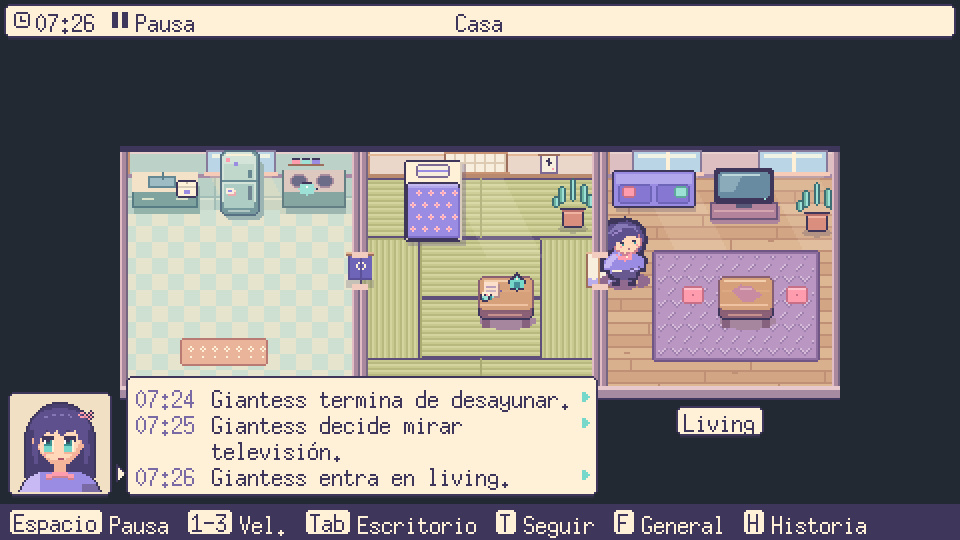
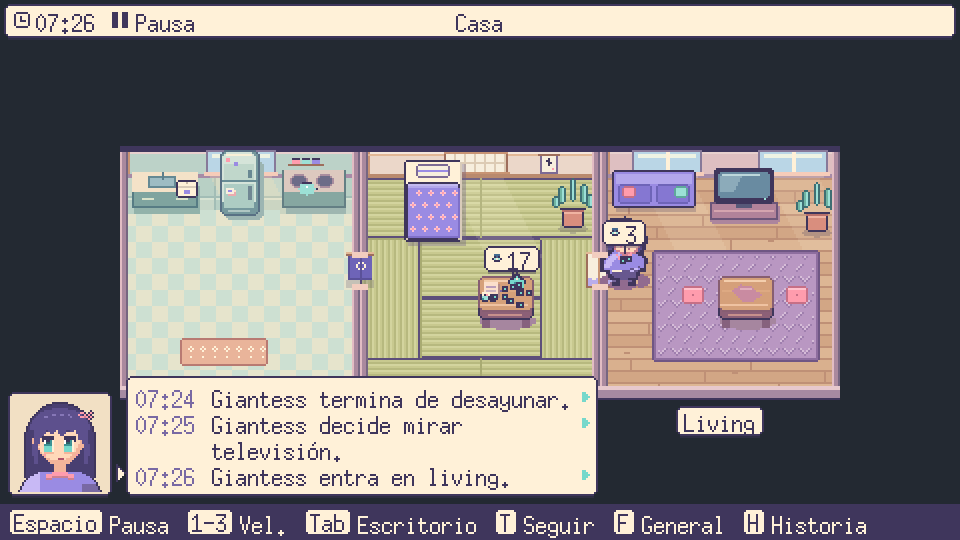
Indicador de tinies en la vista macro: punto por tiny y globo por superficie

Changed region(s): [[0.5, 0.4444, 0.5625, 0.563], [0.625, 0.3852, 0.6875, 0.5037]]

diff --git a/cmd/game/tinies.go b/cmd/game/tinies.go
@@ -1,0 +1,111 @@
+package main
+
+import (
+	"cmp"
+	"image"
+	"math"
+	"slices"
+
+	"github.com/hajimehoshi/ebiten/v2"
+	"github.com/hajimehoshi/ebiten/v2/vector"
+
+	"gtsandbox/internal/camera"
+	"gtsandbox/internal/core/ids"
+	"gtsandbox/internal/ui"
+	"gtsandbox/internal/view"
+)
+
+// tinyGroup son los tinies de una misma superficie, como se indican en la
+// vista macro (donde los tinies no se dibujan).
+type tinyGroup struct {
+	surface ids.ID
+	tinies  []ids.ID
+	dots    []image.Point // cada tiny en el lienzo
+	at      image.Point   // centro del grupo en el lienzo
+	alarmed bool
+	badge   image.Rectangle // dónde quedó el globo
+}
+
+// isTiny dice si una cosa del Frame es un tiny vivo: un agente con
+// necesidades que no es un Space (la giantess sí lo es) ni son restos.
+func isTiny(t view.Thing) bool { return len(t.Needs) > 0 && t.Remains == "" }
+
+// tinyGroups agrupa los tinies por superficie, en orden de ID, y ubica cada
+// globo para que no pise a los anteriores.
+func tinyGroups(f *view.Frame, proj camera.Projector) []tinyGroup {
+	var out []tinyGroup
+	index := map[ids.ID]int{}
+	for _, t := range f.Things {
+		if !isTiny(t) {
+			continue
+		}
+		i, ok := index[t.Space]
+		if !ok {
+			i = len(out)
+			index[t.Space] = i
+			out = append(out, tinyGroup{surface: t.Space})
+		}
+		x, y := proj.ToScreen(t.Pose.Pos)
+		g := &out[i]
+		g.tinies = append(g.tinies, t.ID)
+		g.dots = append(g.dots, image.Pt(int(math.Round(float64(x))), int(math.Round(float64(y)))))
+		g.alarmed = g.alarmed || t.Alarmed
+	}
+	slices.SortFunc(out, func(a, b tinyGroup) int { return cmp.Compare(a.surface, b.surface) })
+	var placed []image.Rectangle
+	for i := range out {
+		g := &out[i]
+		var sum image.Point
+		top := math.MaxInt
+		for _, d := range g.dots {
+			sum = sum.Add(d)
+			top = min(top, d.Y)
+		}
+		g.at = image.Pt(sum.X/len(g.dots), top)
+		b := ui.TinyBadge{Count: len(g.tinies), Alarmed: g.alarmed}
+		for lift := 0; ; lift += 4 {
+			g.badge = b.Rect(g.at, lift)
+			if !slices.ContainsFunc(placed, g.badge.Overlaps) || lift > 80 {
+				break
+			}
+		}
+		placed = append(placed, g.badge)
+	}
+	return out
+}
+
+// drawTinyBadges marca en macro dónde están los tinies: un punto por tiny y
+// un globo por superficie con cuántos hay.
+func (g *game) drawTinyBadges(dst *ebiten.Image, groups []tinyGroup) {
+	for _, gr := range groups {
+		for _, d := range gr.dots {
+			vector.FillRect(dst, float32(d.X-1), float32(d.Y-1), 3, 3, ui.Plum, false)
+			vector.FillRect(dst, float32(d.X), float32(d.Y), 1, 1, ui.Turquoise, false)
+		}
+	}
+	for _, gr := range groups {
+		ui.TinyStem(dst, gr.badge, gr.at)
+	}
+	for _, gr := range groups {
+		ui.TinyBadge{Count: len(gr.tinies), Alarmed: gr.alarmed}.Draw(dst, g.art.atlas, gr.badge)
+	}
+}
+
+// clickTinyBadge atiende un clic sobre un globo: entra a la vista de cerca de
+// esa superficie o, si no tiene, elige al primer tiny del grupo.
+func (g *game) clickTinyBadge(p image.Point) bool {
+	for _, gr := range g.art.badges {
+		if !p.In(gr.badge) {
+			continue
+		}
+		if s := g.microSurface(g.run.Cur, gr.surface); !s.IsNil() {
+			g.stopFollowing()
+			g.sel = s
+			g.toggleArtMicro()
+		} else {
+			g.sel = gr.tinies[0]
+		}
+		return true
+	}
+	return false
+}

diff --git a/cmd/game/tinies_test.go b/cmd/game/tinies_test.go
@@ -1,0 +1,61 @@
+package main
+
+import (
+	"testing"
+)
+
+// En macro, cada tiny vivo cuenta en el globo de su superficie, los globos no
+// se pisan y un clic en el del escritorio lleva a su vista de cerca.
+func TestTinyBadges(t *testing.T) {
+	g := artGame(t, morningScenario)
+	desk := refOf(t, morningScenario, "desk1")
+	for _, tick := range []int{30, 300, 530} {
+		f := stepTo(t, g, tick)
+		groups := tinyGroups(f, g.cam.Project(g.anchor(f), g.w, g.h))
+		want, got := 0, 0
+		for _, th := range f.Things {
+			if isTiny(th) {
+				want++
+			}
+		}
+		for i, gr := range groups {
+			got += len(gr.tinies)
+			if i > 0 && groups[i-1].surface >= gr.surface {
+				t.Fatalf("tick %d: grupos fuera de orden", tick)
+			}
+			for _, other := range groups[:i] {
+				if gr.badge.Overlaps(other.badge) {
+					t.Fatalf("tick %d: globos superpuestos %v %v", tick, gr.badge, other.badge)
+				}
+			}
+			if gr.badge.Max.Y > gr.at.Y {
+				t.Fatalf("tick %d: el globo no queda encima de los tinies", tick)
+			}
+		}
+		if got != want || want == 0 {
+			t.Fatalf("tick %d: %d tinies en globos, %d en el mundo", tick, got, want)
+		}
+	}
+
+	g = artGame(t, morningScenario)
+	f := stepTo(t, g, 30)
+	g.art.badges = tinyGroups(f, g.cam.Project(g.anchor(f), g.w, g.h))
+	var deskBadge *tinyGroup
+	for i := range g.art.badges {
+		if g.art.badges[i].surface == desk {
+			deskBadge = &g.art.badges[i]
+		}
+	}
+	if deskBadge == nil {
+		t.Fatal("sin globo en el escritorio")
+	}
+	if !g.clickTinyBadge(deskBadge.badge.Min.Add(deskBadge.badge.Size().Div(2))) {
+		t.Fatal("el clic no tocó el globo")
+	}
+	if g.art.focus != desk {
+		t.Fatalf("el clic lleva a %v, no al escritorio", g.art.focus)
+	}
+	if g.clickTinyBadge(deskBadge.badge.Max.Add(deskBadge.badge.Size())) {
+		t.Fatal("un clic fuera del globo no lo toca")
+	}
+}

diff --git a/internal/ui/partida.go b/internal/ui/partida.go
@@ -3,6 +3,7 @@ package ui
 import (
 	"image"
 	"image/color"
+	"strconv"
 	"strings"
 
 	"github.com/hajimehoshi/bitmapfont/v4"
@@ -425,4 +426,42 @@ func drawEye(dst *ebiten.Image, x, y int) {
 	vector.FillRect(dst, fx+2, fy+1, 7, 4, Ivory, false)
 	vector.FillRect(dst, fx+4, fy+1, 3, 4, Lilac, false)
 	vector.FillRect(dst, fx+5, fy+2, 1, 2, Plum, false)
+}
+
+// TinyBadge es el indicador de los tinies de una superficie en la vista
+// macro, donde no se dibujan: el marcador del tiny y cuántos hay, con un
+// palito (TinyStem) que baja hasta ellos. En coral si alguno está alarmado.
+type TinyBadge struct {
+	Count   int
+	Alarmed bool
+}
+
+const (
+	tinyBadgeH   = 13
+	tinyBadgeGap = 6 // del borde inferior del globo hasta los tinies
+)
+
+// Rect es el globo para tinies centrados en at; lift lo sube más (para no
+// pisar otro globo).
+func (b TinyBadge) Rect(at image.Point, lift int) image.Rectangle {
+	w := 4 + 5 + 3 + TextWidth(strconv.Itoa(b.Count)) + 4
+	bottom := at.Y - tinyBadgeGap - lift
+	return image.Rect(at.X-w/2, bottom-tinyBadgeH, at.X-w/2+w, bottom)
+}
+
+// TinyStem dibuja el palito que baja del globo r hasta los tinies en at. Se
+// dibujan todos antes que los globos, para que un palito no cruce otro globo.
+func TinyStem(dst *ebiten.Image, r image.Rectangle, at image.Point) {
+	vector.FillRect(dst, float32(at.X), float32(r.Max.Y), 1, float32(at.Y-2-r.Max.Y), Plum, false)
+}
+
+// Draw dibuja el globo r.
+func (b TinyBadge) Draw(dst *ebiten.Image, atlas *render.Atlas, r image.Rectangle) {
+	fill := Ivory
+	if b.Alarmed {
+		fill = Coral
+	}
+	Box(dst, r, fill)
+	atlas.DrawClip(dst, "tiny", render.Macro, "idle", image.Pt(r.Min.X+6, r.Min.Y+6))
+	DrawText(dst, strconv.Itoa(b.Count), r.Min.X+12, r.Min.Y, Plum)
 }

diff --git a/cmd/game/art.go b/cmd/game/art.go
@@ -49,8 +49,9 @@ type artMode struct {
 	pendingFade      bool
 	presented        *ebiten.Image
 	fadeFrom         *ebiten.Image
-	layout           ui.Layout // zonas de la interfaz de partida del último frame
-	debug            bool      // F3: overlays técnicos sobre el arte
+	layout           ui.Layout   // zonas de la interfaz de partida del último frame
+	debug            bool        // F3: overlays técnicos sobre el arte
+	badges           []tinyGroup // globos de tinies del último frame macro
 }
 
 func (g *game) enableArt(path string) error {
@@ -254,6 +255,9 @@ func (g *game) artMouse() {
 				return
 			}
 		}
+		if g.clickTinyBadge(pixel) {
+			return
+		}
 		g.sel = a.last.Pick(pixel)
 	}
 	if inpututil.IsMouseButtonJustPressed(ebiten.MouseButtonRight) {
@@ -289,6 +293,10 @@ func (g *game) drawArt(dst *ebiten.Image, f *view.Frame, proj camera.Projector) 
 				ui.Box(dst, r, ui.Ivory)
 				ui.DrawText(dst, label, r.Min.X+4, r.Min.Y+1, ui.Plum)
 			}
+			a.badges = tinyGroups(f, proj)
+			g.drawTinyBadges(dst, a.badges)
+		} else {
+			a.badges = nil
 		}
 		g.drawEmotes(dst, f, scale)
 		a.layout = g.partida(f, focus).Draw(dst, a.atlas)

diff --git a/docs/specs/presentacion.md b/docs/specs/presentacion.md
@@ -124,12 +124,13 @@ Ver `docs/specs/crush.md#presentación-m27`. Los restos usan el visual `remains`
 
 ## Interfaz de partida
 
-Con un escenario que declara `atlas` (la casa), `-art` abre la interfaz de partida. El juego arma un `ui.HUD` a partir del `Frame` (`g.partida`), y `HUD.Draw` lo dibuja sobre el lienzo de 480 × 270 con paneles marfil de esquinas redondeadas, borde ciruela y la fuente pixel de 12 px de `bitmapfont`, que trae tildes y eñes.
+Con un escenario que declara `atlas` (la casa) se abre la interfaz de partida. El juego arma un `ui.HUD` a partir del `Frame` (`g.partida`), y `HUD.Draw` lo dibuja sobre el lienzo de 480 × 270 con paneles marfil de esquinas redondeadas, borde ciruela y la fuente pixel de 12 px de `bitmapfont`, que trae tildes y eñes.
 
 - **Barra superior.** Muestra el reloj de la casa: la mañana empieza a las 7:00 y cada segundo simulado es un minuto. La velocidad se lee por forma (dos barras en pausa, uno a tres triángulos) y por texto. El centro lleva el rótulo jerárquico de ubicación: en micro, el Space que contiene a la superficie y la superficie («Dormitorio › Escritorio», «Giantess › Palma»); en macro, la casa y la habitación de lo seguido o elegido. A la derecha aparece «Siguiendo a …» cuando hay seguimiento.
 - **Barra inferior.** Muestra los controles como teclas con su rótulo: `Espacio` pausa, `1-3` velocidad, `T` seguir, `F` encuadre general y `H` historia. El rótulo de `Tab` es su destino: la superficie a la que lleva («Escritorio», «Dormitorio», «Palma») o «Casa» de cerca. `F3` (debug) funciona pero no entra en la barra.
 - **Historia.** Presenta el retrato de la giantess junto a un globo con las entradas recientes. Cada `view.StoryEntry` trae su actor y su lugar, y la flecha turquesa marca las que se pueden enfocar. Un clic sigue al actor en la vista micro de su superficie (a la giantess, en macro) o, si el actor ya no está, abre la vista micro del lugar.
 - **Inspector resumido.** Al elegir una entidad muestra su nombre con su símbolo, su ubicación, la actividad en castellano («Va a desayunar», «Acarrea una migaja», «Descansa en la taza»), las necesidades y la orden disponible («Clic der.: ir allí», que manda `move_to`). Cada necesidad tiene barra y rótulo, y una necesidad baja lleva además «!» y la barra rayada, para leerse sin color.
+- **Tinies en macro.** El tiny no se dibuja en macro (salvo el marcador del elegido o seguido), así que cada tiny vivo lleva un punto turquesa y cada superficie con tinies, un globo con el marcador del tiny y cuántos hay (`ui.TinyBadge`, armado en `cmd/game/tinies.go`). El globo se pone coral si alguno está alarmado y sube si pisaría otro. Un clic en el globo abre la vista micro de esa superficie o, si no tiene, elige al primer tiny del grupo.
 - **Símbolos de expresión.** `Frame.Emote(id)` los calcula. Los que salen de eventos duran `view.CueTicks` (2 s) y el `Runner` los guarda en `Frame.Cues`: «!» cuando un tiny nota comida, la gota al subir a la mano y la vena si le interrumpen una oferta en uso. Los que salen del estado son la gota al caer o viajar en la mano levantada, «?» al explorar, «zzz» al descansar o dormir y la nota al mirar la TV. En micro se dibujan sobre cada tiny; en macro, sobre la giantess y lo elegido o seguido.
 - **Retrato.** `Frame.Expression(id)` elige la expresión según este orden:
   1. sorprendida si algo acaba de subir a su mano;
